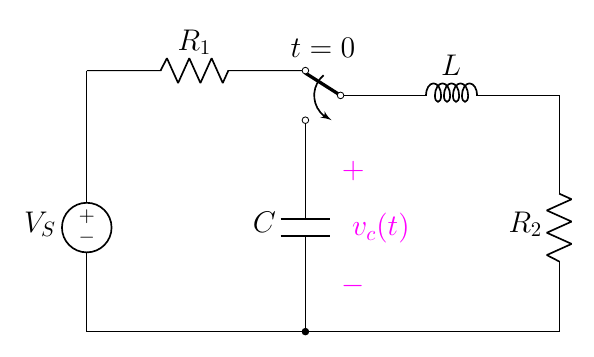
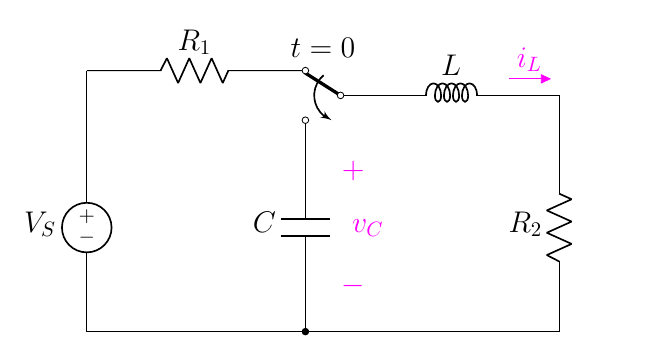
8.14

diff --git a/2.6 Overdamped/8.3.1 The Overdamp RLC Circuit/8.14(new).tex b/2.6 Overdamped/8.3.1 The Overdamp RLC Circuit/8.14(new).tex
@@ -31,7 +31,10 @@
     %%% find %%%
     \node at (4,4.8)[]{$t=0$};
     \draw[magenta](4.2,0.5)
-        to[open, v>=$v_c(t)$] ++(0,2.5);
+        to[open, v>=$v_C$] ++(0,2.5);
+
+    \draw[circuitikz/current arrow color=magenta](7,4)
+        to[open,f>^=$\color{magenta}{i_L}$] ++(2.4,0);
 
 \end{circuitikz}
 \end{document}
